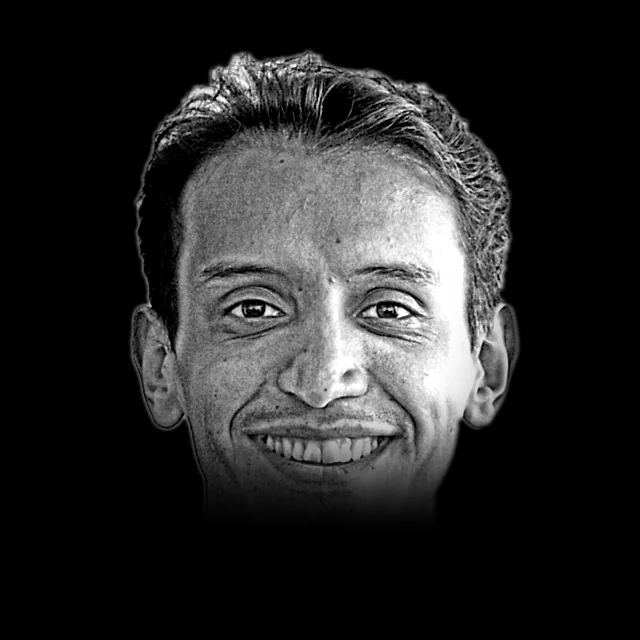
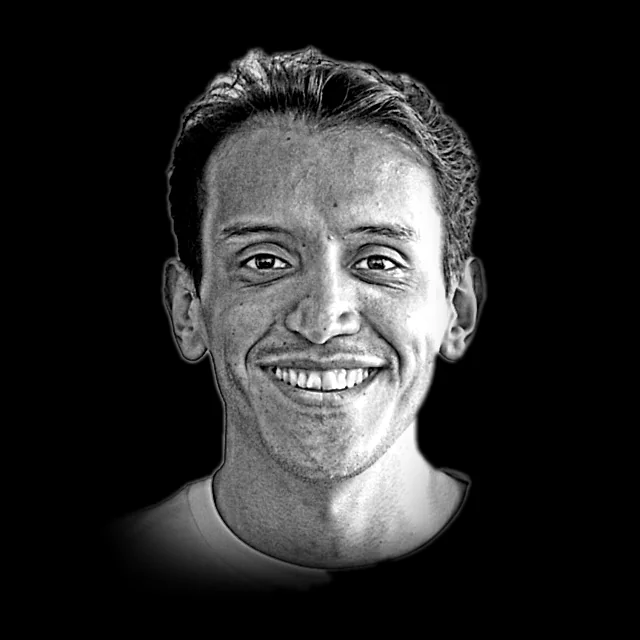
fix(about): show the whole face, chin and neck in the ASCII portrait
The vertical fade started at 60% of the image height, which is where the
chin is, so the chin was dimmed away. Enlarge and shift the crop to leave
room below the chin, move the fade to below the neck, and narrow the
oval so only a short stretch of neck and collar remain.

diff --git a/scripts/prepare-portrait.ts b/scripts/prepare-portrait.ts
@@ -19,9 +19,9 @@ import sharp, { type Sharp } from "sharp";
 const OUTPUT = resolve(process.cwd(), "assets/portrait/portrait.webp");
 const SIZE = 640;
 
-// Square crop of the source, as fractions of its width: tight on the head, so
-// the face gets as many ASCII cells as possible.
-const CROP = { left: 0.17, top: 0.09, size: 0.62 };
+// Square crop of the source, as fractions of its width: hair to the collar, so
+// the whole face, the chin, and a short stretch of neck are in the frame.
+const CROP = { left: 0.107, top: 0.0845, size: 0.745 };
 
 // The backdrop is a very smooth, bright gradient (about 225-245, +/-1 between
 // neighbours). It is flood-filled from the top and upper side edges: a pixel
@@ -41,12 +41,13 @@ const BACKDROP_GROW_MIN = 190;
 // Tonal stretch of the enhanced subject so skin sits mid-gray, not dim.
 const LEVELS = { black: 20, white: 225, gamma: 1 };
 
-// Vertical fade of the shirt: fully visible above FADE_START, black at the end.
-const FADE_START = 0.6;
-const FADE_END = 0.84;
+// Vertical fade toward the collar: fully visible above FADE_START (below the
+// chin and neck), black at FADE_END.
+const FADE_START = 0.8;
+const FADE_END = 0.94;
 
 // Soft oval around the face; everything outside it fades to black.
-const OVAL = { cx: 0.5, cy: 0.42, rx: 0.5, ry: 0.72 };
+const OVAL = { cx: 0.5, cy: 0.46, rx: 0.4, ry: 0.78 };
 
 /** Raw 8-bit pixels of one channel, asserting the buffer really is SIZE². */
 async function singleChannel(image: Sharp) {
